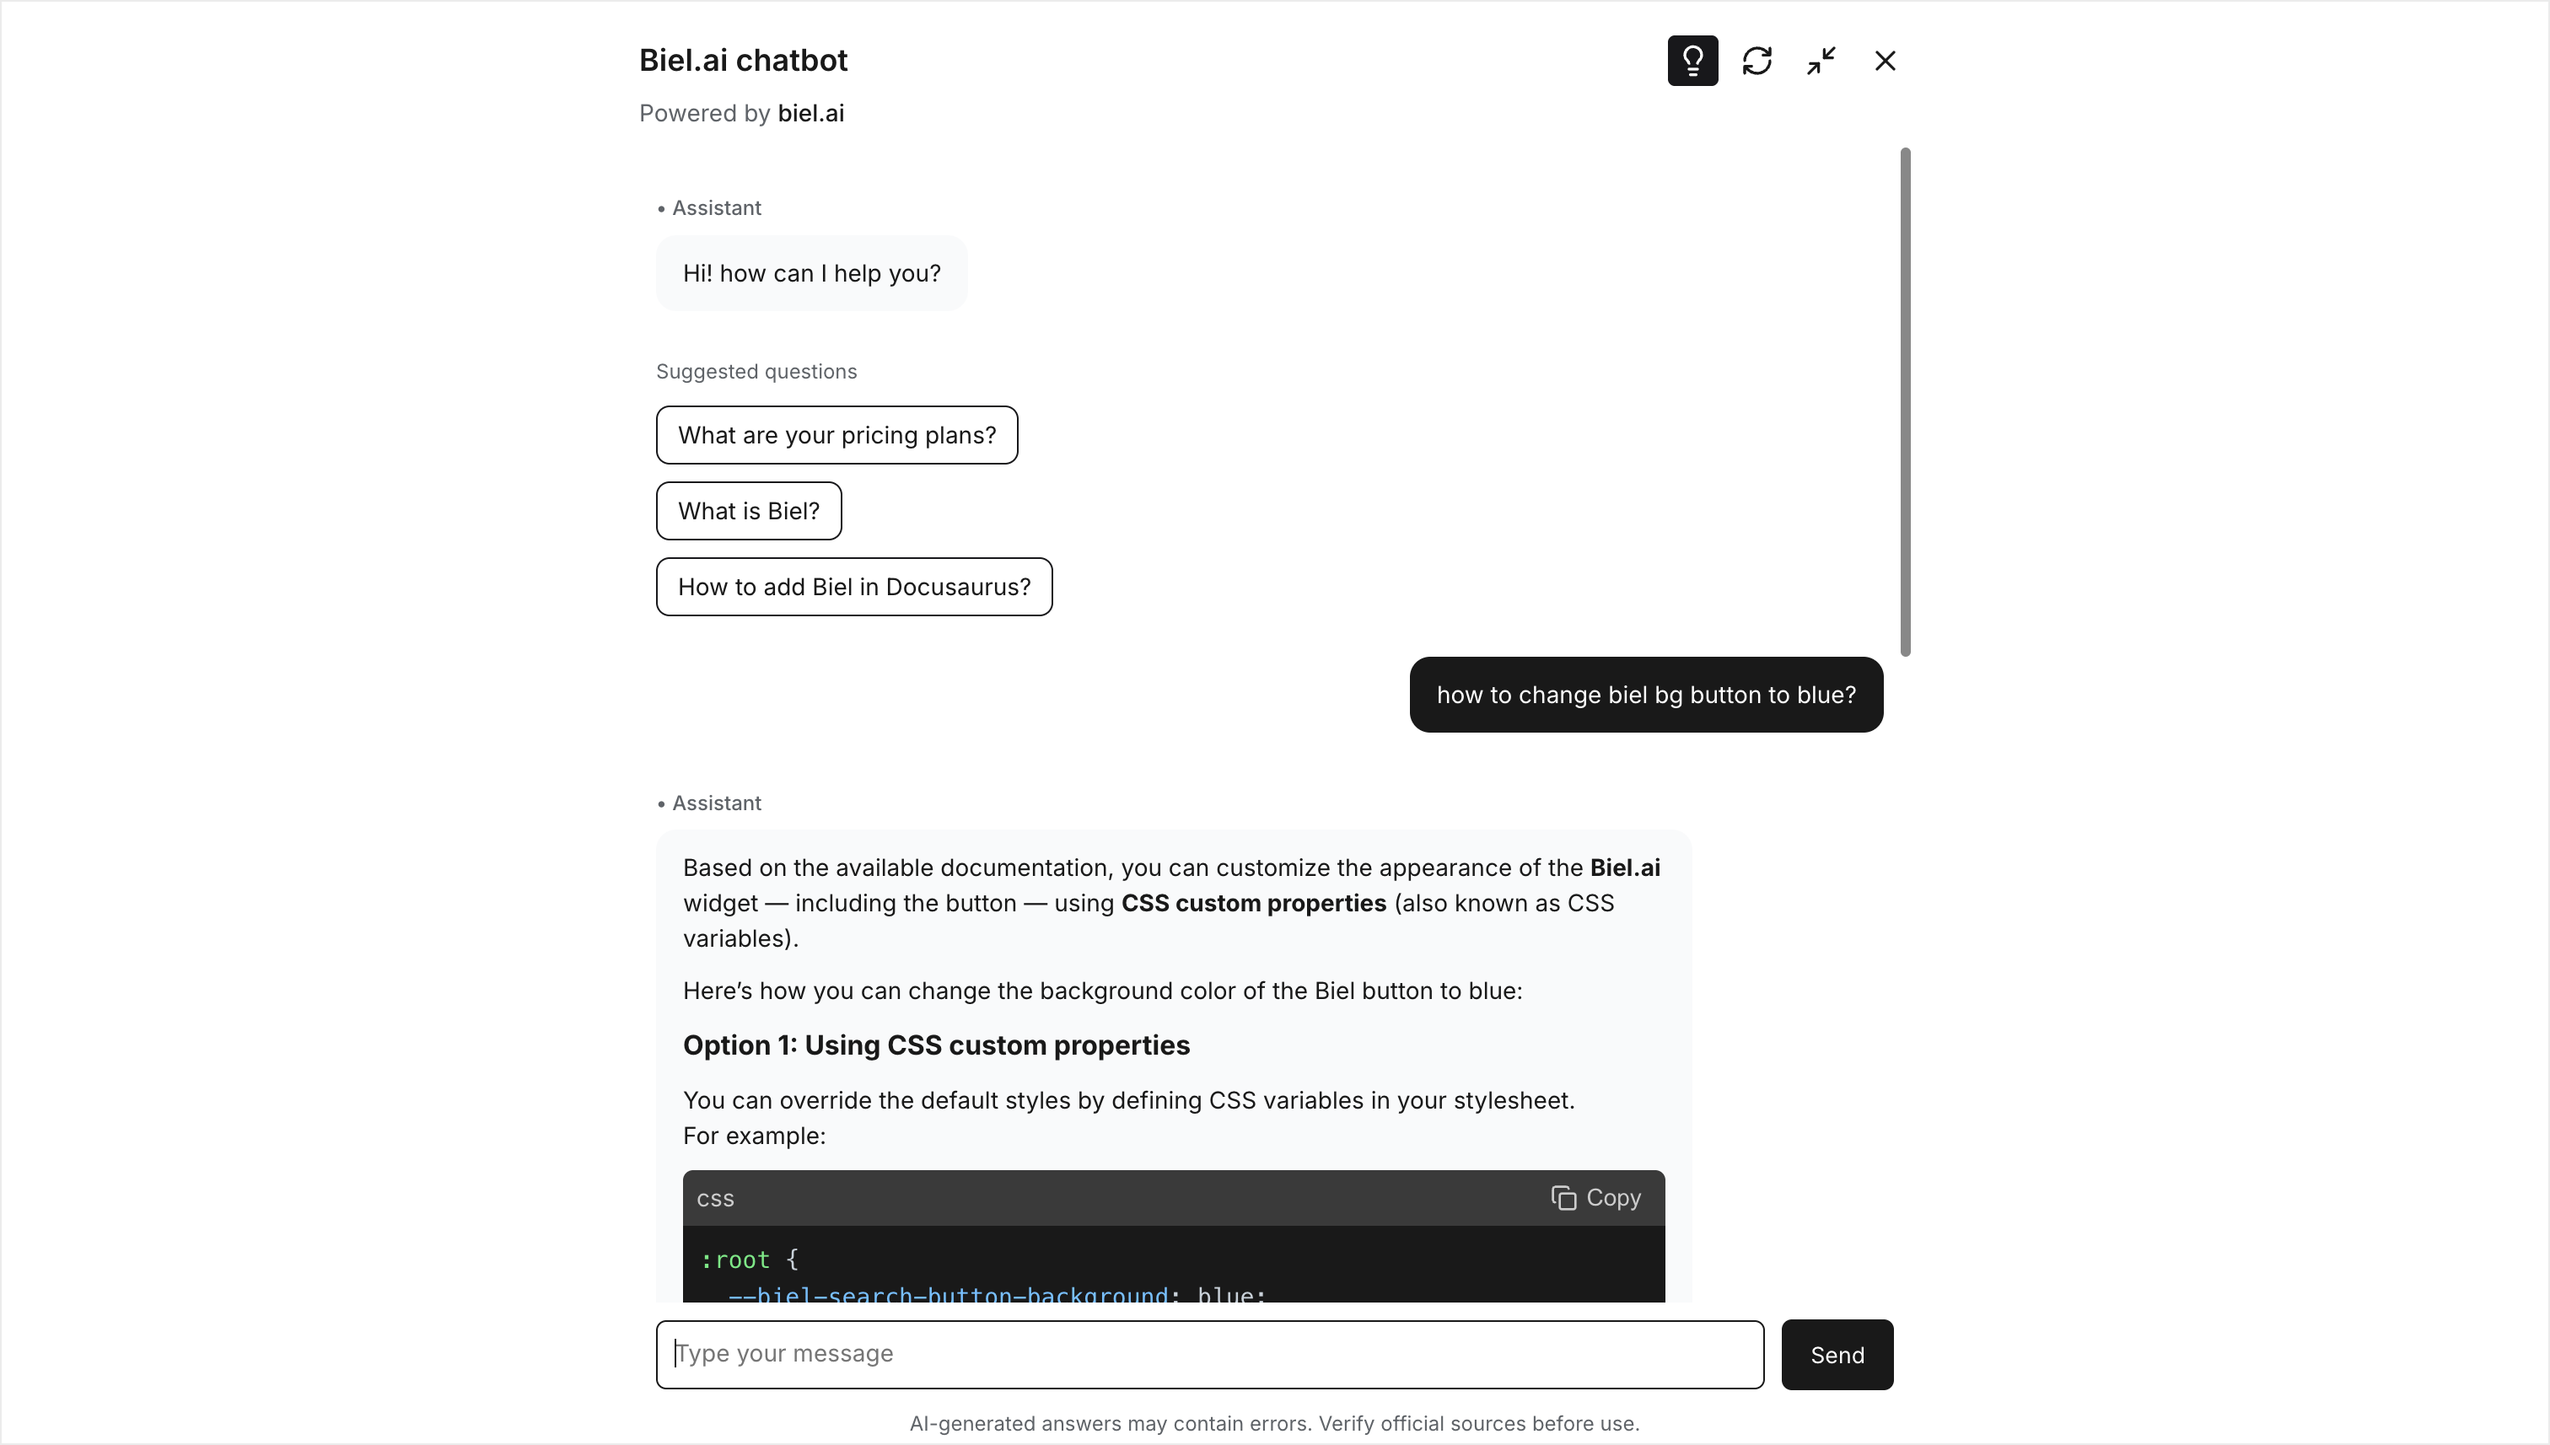
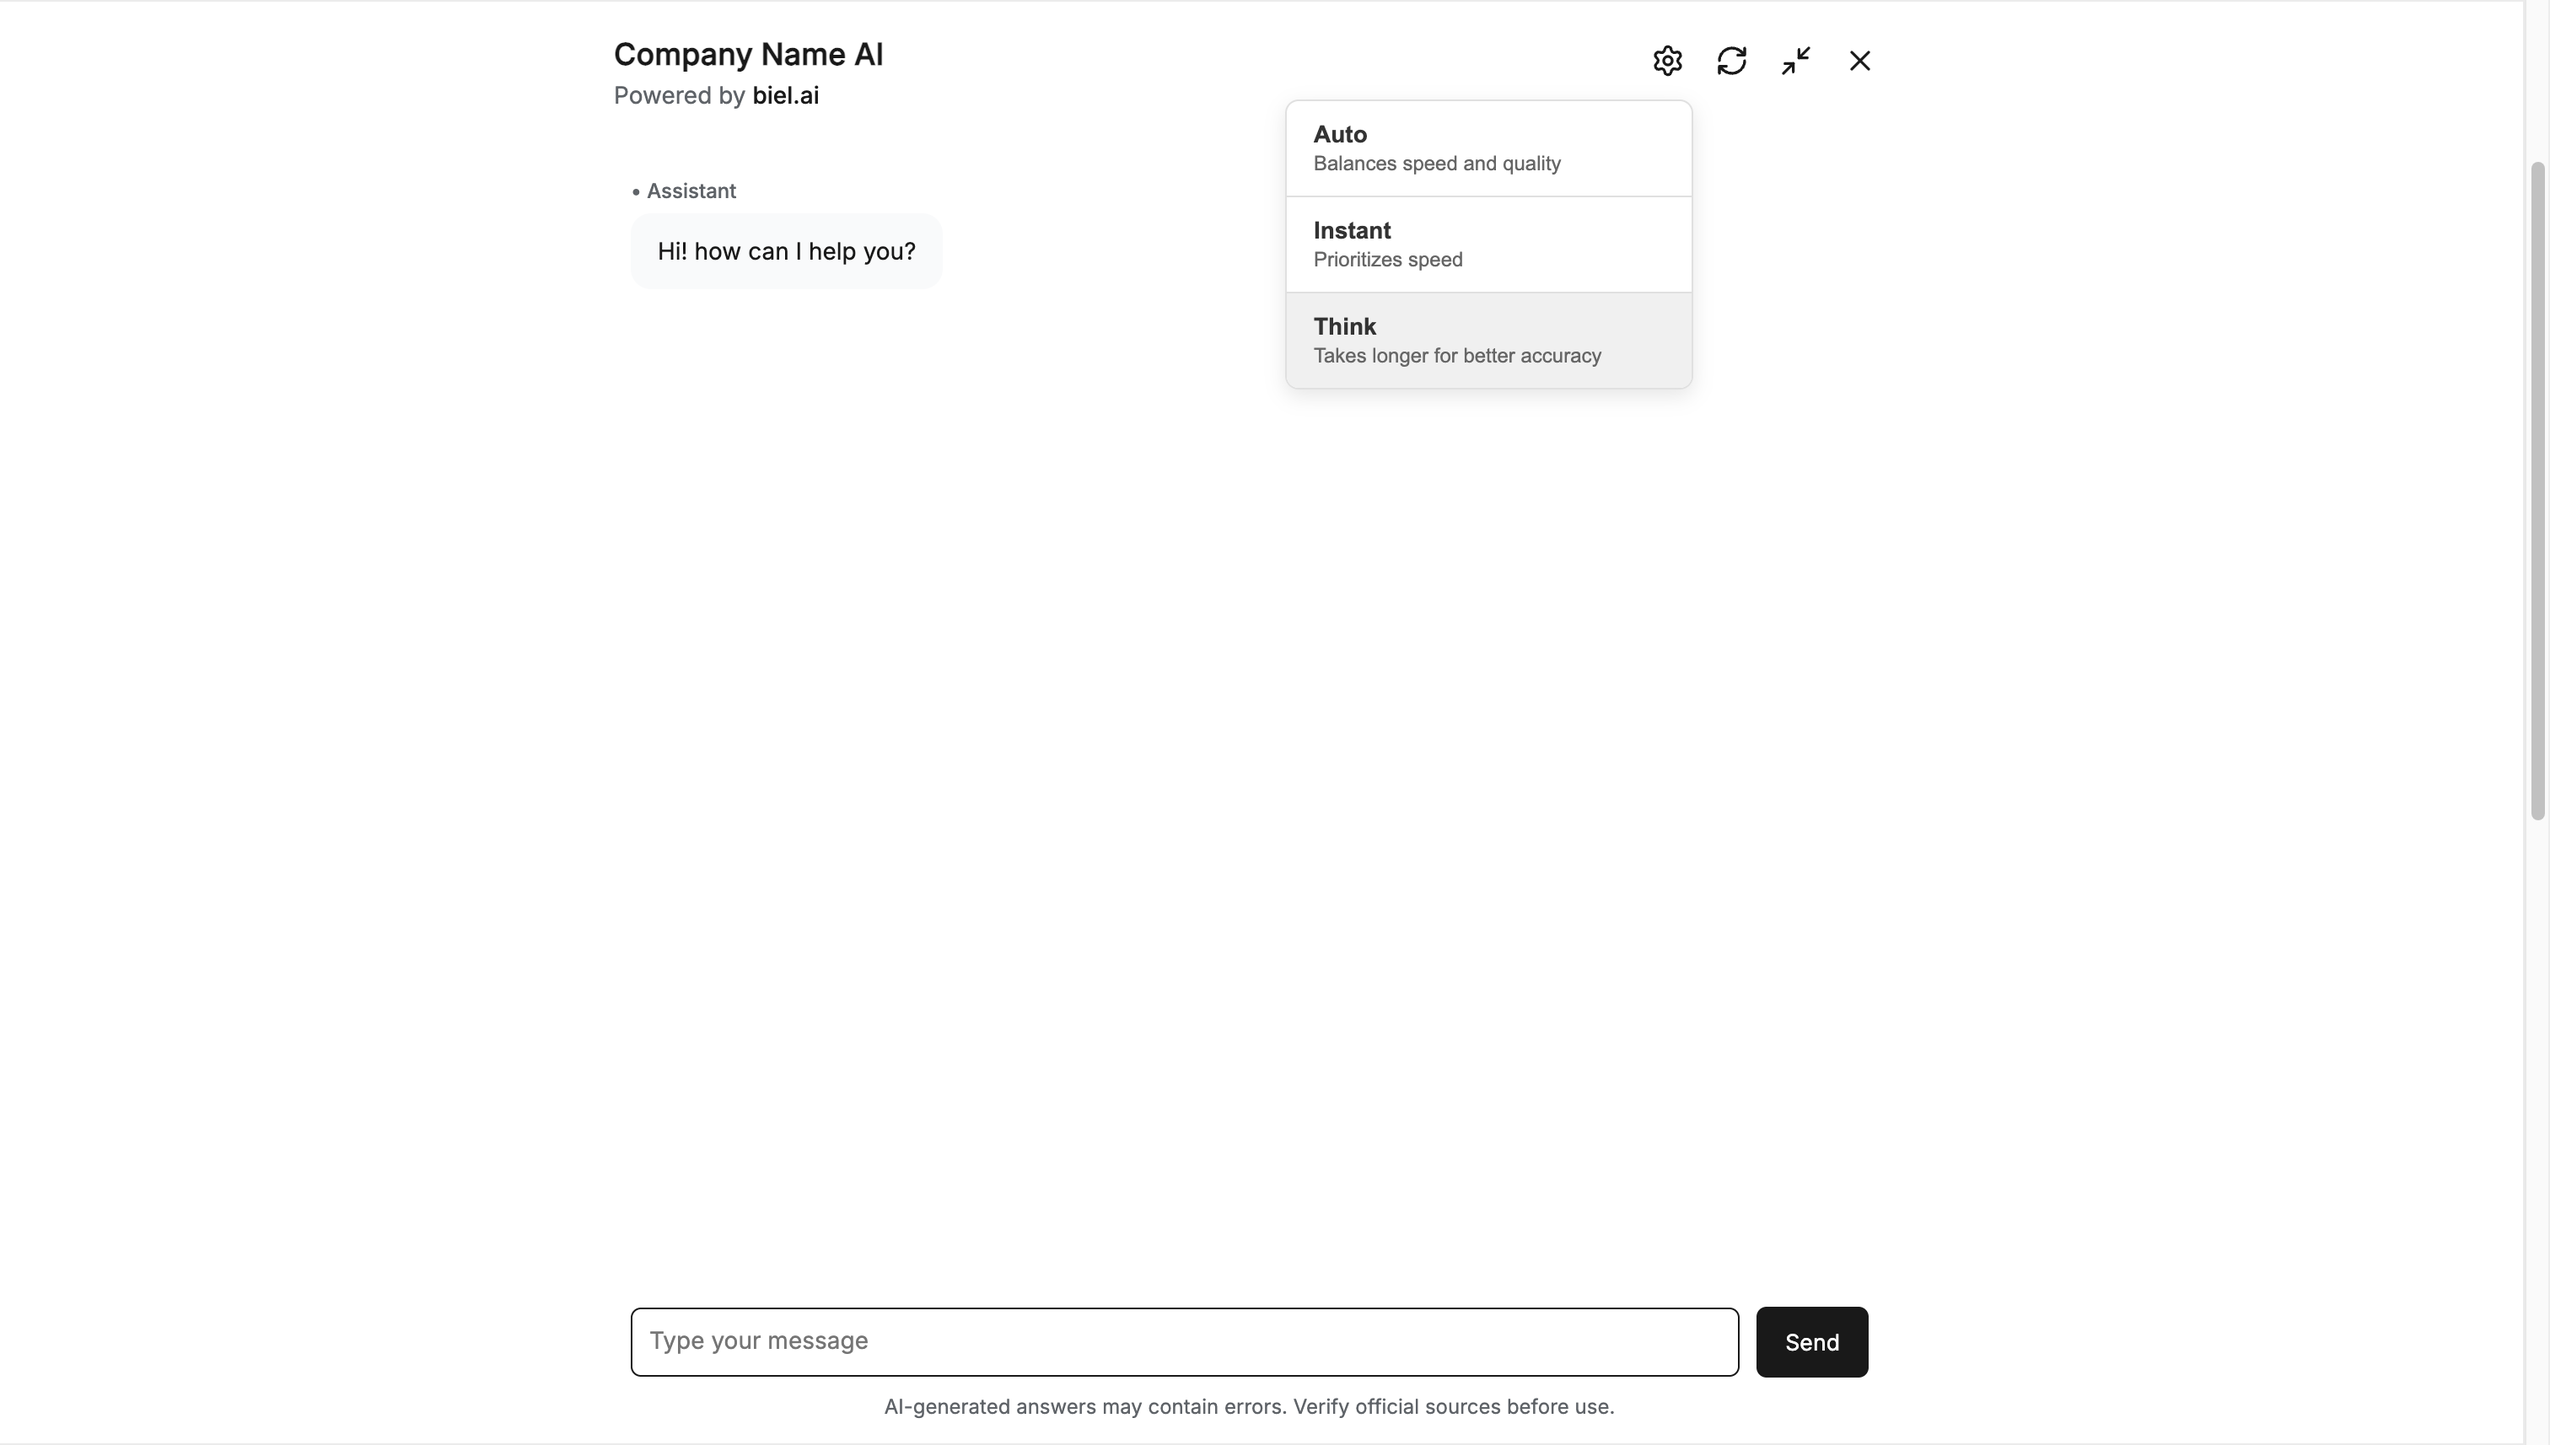
Update think mode docs to reflect new settings dropdown UI

diff --git a/docs/customization/think-mode.md b/docs/customization/think-mode.md
@@ -4,39 +4,47 @@
 The think mode is currently in beta and available for early adopters. We're actively working on improving its performance.
 :::
 
-Enable deeper AI reasoning for complex questions that require comprehensive analysis.
+Control how the AI reasons through questions with three distinct modes: Auto, Instant, and Think.
 
-![Think mode toggle in chat widget](./images/think-mode.png)
+![Think mode settings in chat widget](./images/think-mode.png)
 
-## What is think mode?
+## Reasoning modes
 
+Your chat widget includes a settings button that lets users choose their preferred reasoning depth:
 
-**When to use it:**
-- Complex technical questions requiring multiple sources
-- Implementation tasks needing complete context
-- Questions where accuracy matters more than speed
+**Auto (default)**
+- Balances speed and quality
+- Lets the system determine the appropriate reasoning depth
+- Good for most questions
 
-**When to skip it:**
-- Simple lookups or quick references
-- Single parameter definitions
+**Instant**
+- Instant answers for quick lookups
+- Best for simple questions and single parameter definitions
+- Uses minimal computational resources
+
+**Think**
+- Takes longer for better accuracy
+- Deep reasoning for complex technical questions
+- Best when accuracy matters more than speed
+- Uses 4-8x more interactions per question
 
 ## Performance trade-offs
 
-Think mode provides higher quality answers at the cost of speed and usage:
+Each reasoning mode has different speed and usage characteristics:
 
-| Metric | Standard Mode | think mode |
-|--------|--------------|------------|
+| Metric | Auto/Fast | Think |
+|--------|-----------|-------|
 | Response time | ~1-4 seconds | ~8 seconds - 1 minute |
 | Interactions used | 1 per question | 4-8 per question |
 | Best for | Quick lookups | Complex analysis |
 
 :::info
-Each interaction counts toward your plan's usage limits. think mode uses 4-8x more interactions than standard mode.
+Each interaction counts toward your plan's usage limits. Think mode uses 4-8x more interactions than Auto or Fast mode.
 :::
 
 ## Availability
 
-think mode is available on:
+Think mode is available on:
 - ✅ **Growth, Professional, and Business plans**
 - ✅ **Demo mode** (for testing)
 - ❌ **Starter plan** (not available due to higher computational cost)
